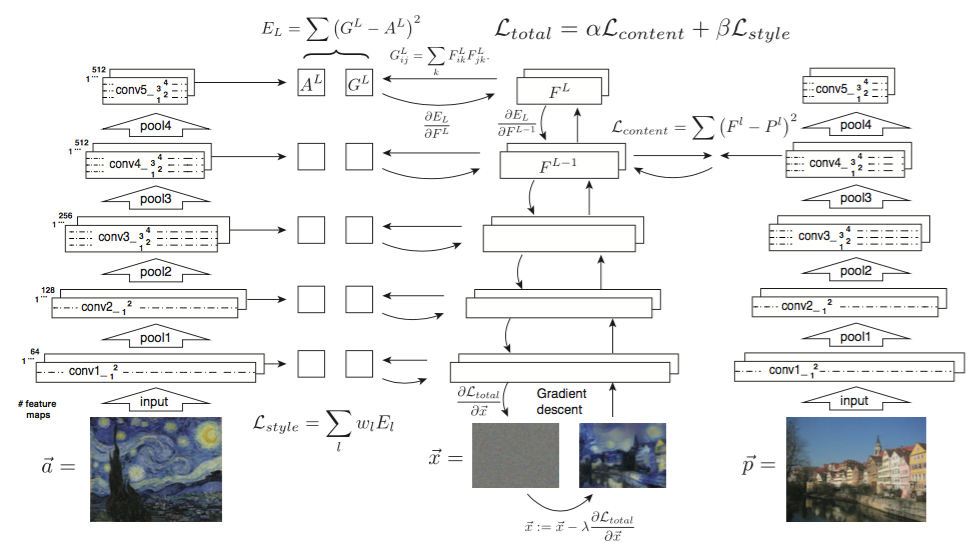
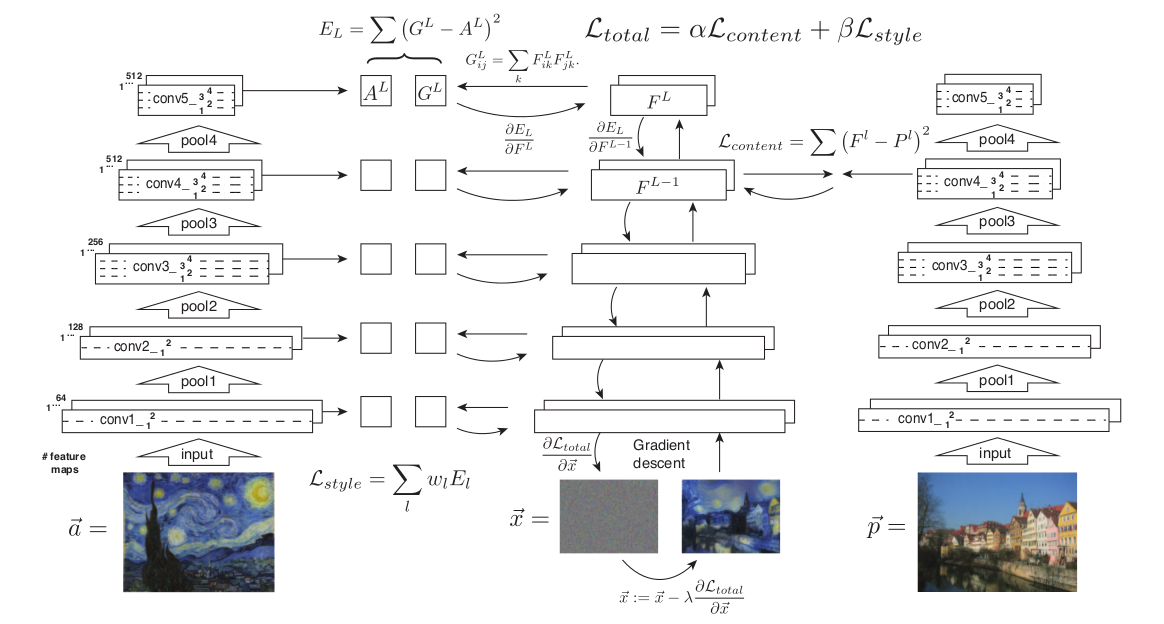
correcciones en algoritmo tranferencia de estilo

Changed region(s): [[0.0, 0.0311, 1.0, 0.9963], [0.4913, 0.0311, 0.7984, 0.0934]]

diff --git a/escrita/tesis.tex b/escrita/tesis.tex
@@ -165,18 +165,17 @@
     Debido a que las obras de arte, sueles calificadas con métricas cualitativas y no tanto cuantitativas, se decidió utilizar otra red neuronal convolucional,
     entrenada especialmente para reconocer estilos artísticos y en base a los resultados que arroja se define si el número de iteraciones es suficiente para generar el resultado final
     o es necesario continuar iterando. \\
-    Para introducir al lector en el tema, a continuación se muestran algunos ejemplos de resultados generados transfiriendo el estilo artístico a fotografías:
-    \FIXME{ACOMODAR IMÁGENES Y COMPLETAR PIE DE FOTO}
+    Para introducir al lector en el tema en la figura \ref{fig:style_transfer_candy_tower} se puede observar un ejemplo del resultado de aplicar la transferencia de estilo en fotografias.
     \begin{figure}[h]
 
-      \subfloat[Imagen de Estilo]{\includegraphics[width=0.9\linewidth, height=5cm]{./img/jhonson_style_candy.jpg}\label{fig:candy}}
+      \subfloat[Imagen de Estilo]{\includegraphics[height=0.3\textheight]{./img/jhonson_style_candy.jpg}\label{fig:candy}}
 
-      \subfloat[Imagen de Contenido]{\includegraphics[width=0.9\linewidth, height=5cm]{./img/jhonson_content_tower.jpg}\label{fig:tower}}
+      \subfloat[Imagen de Contenido]{\includegraphics[height=0.3\textheight]{./img/jhonson_content_tower.jpg}\label{fig:tower}}
 
       \subfloat[Resultado obtenido transfiriendo el estilo de la obra de arte a la imagen de contenido]
-      {\includegraphics[width=0.9\linewidth, height=5cm]{./img/jhonson_result_tower_candy.jpg}\label{fig:candy_tower}}
+      {\includegraphics[height=0.3\textheight]{./img/jhonson_result_tower_candy.jpg}\label{fig:candy_tower}}
 
-    \caption{En la figura se puede observar un ejemplo de como funciona la transferencia de estilo}
+    \caption{Ejemplo de transferencia de estilo}
     \label{fig:style_transfer_candy_tower}
     \end{figure}
 
@@ -220,7 +219,6 @@
       Tom M. Mitchell elaboró una definición más formal de este concepto de aprendizaje: “se dice que un programa de computadora aprende de una experiencia E con respecto a una clase
       de tarea T y medición de desempeño P, si su desempeño en la tarea T, medido por P, mejora con la experiencia E” [Mitchell,1997].\\
       El aprendizaje automático es esencialmente una forma de estadística aplicada con énfasis en el uso de computadoras para estimar estadísticamente funciones complicadas.
-      \FIXME{AGREGAR EJEMPLO, DETECCIÓN DE NÚMEROS EN IMÁGENES, TEXTURAS O ALGÚN OTRO?}
 
     \subsection{Clasificación de algoritmos de aprendizaje automático}
       Dentro del aprendizaje automático, los algoritmos se pueden clasificar
@@ -297,7 +295,7 @@
 	A lo largo del desarrollo de la visión por computadora se distinguen dos enfoques para la generación de descriptores capaces de reconocer características de una imagen:
 	El enfoque basado en técnicas superficiales (o “shallow” en inglés) y el enfoque de aprendizaje profundo (o “deep” en inglés).
 
-      \subsubsection{Enfoque Clásico \FIXME{MODELOS \emph{SHALLOW}}}
+      \subsubsection{Enfoque Clásico}
 	El enfoque clásico (Shallow en la literatura en ingles) responde a la manera tradicional de hacer visión por computadoras. Se busca generar una representación invariante
 	a la posición, iluminación, fondo, etc. utilizando principalmente técnicas estadísticas a partir de conocimiento anterior del objeto y del contexto.
 	Los descriptores son diseñados a mano a partir de características físicas, hipótesis y observaciones. Con este enfoque no se aprenden características de los objetos sino que
@@ -718,6 +716,7 @@
     locales que son útiles en una región de la imagen, probablemente sean útiles en otras regiones de la imagen. \FIXME{BISHOP 285 }
     \subsection{Función de Convolución}
       \FIXME{Definir función de convolución}
+      \FIXME{Hablar de filtro}
     \begin{figure}[H]
       \begin{center}
        \includegraphics[width=0.8\linewidth]{./img/stanford_cnn.jpeg}
@@ -870,29 +869,44 @@
 	\end{itemize}
 
 \chapter{Algoritmo de Transferencia de estilo}
-
-    \section{Contexto}
-      En este capitulo se desarrollan los contenidos específicos relativos al Algoritmo de Transferencia de Estilos artisticos a fotografías. El algoritmo elegido para tal fin es el que
-      presenta Gatys en su articulo \cite{Gatys:Neural_Style}. \\
-      Inicialmente, el autor publica un articulo para sintetizar texturas naturales utilizando Redes Neuronales Convolucionales entrenadas para el reconocimiento de objetos,
-      donde define a una textura como la correlación entre los distintos mapas de caracteristicas de cada una de las capas de la red.\cite{Gatys:Texture_Synthesis}
-      Esta misma idea luego la aplica para la Transferencia de Estilos, problema que normalmente se encaraba en una rama de la visión de computadoras llamada representación
-      no fotorrealista \cite{Kyprianidis:ArtisticStylization}. Existen otros enfoques conceptualmente más relacionados con los métodos que utilizan la textura para lograr la transferencia
-      del estilo artístico: \cite{Hertzmann:ImageAnalogies}, \cite{Ashikhmin:FastTextureTransfer}, \cite{Efros:ImageQuilting}, \cite{Lee:DirectionalTextureTransfer},
-      \cite{Xie:FGTS}. Sin Embargo, estos enfoques anteriormente mencionados, se basan principalmente en técnicas que manipulan directamente el píxel de la representación de una imagen. 
-      En cambio, mediante Redes Neuronales Convolucionales entrenadas en el reconocimiento de objetos,  se puede llevar a cabo manipulaciones de caracteristicas de alto nivel que representan 
-      explícitamente el contenido de una imagen. \\
-      La publicación de estos artículos, ha incentivado a muchos investigadores del area a continuar desarrollando estas ideas, a tal punto que hasta el dia de hoy se siguen publicando
-      avances el tema, a gran velocidad.
-
     \section{Introducción}
+      En este capitulo se desarrollan los contenidos específicos relativos al Algoritmo de Transferencia de Estilos artisticos a fotografías. El algoritmo elegido para tal fin es el que
+      presenta Gatys et al. \cite{Gatys:Neural_Style}. \\
       En lo que al arte respecta, los humanos han desarrollado la capacidad de crear experiencias visuales únicas componiendo una compleja interacción entre el contenido y el estilo de una imagen.
       Sin ir mas lejos, las bases algoritmicas de este proceso se desconocen y no existen sistemas artificiales que con capacidades similares. Sin embargo, en otras areas fundamentales
       de la percepcion visual como el reconocimiento de objetos y rostros recientemente se ha alcanzado precisión cercana a la de un humano, utilizando modelos de redes neuronales profundas.
       Aquí se presenta un sistema artificial basado en una Red Neural Profunda que crea imágenes artísticas de alta calidad perceptiva. El sistema utiliza representaciones neuronales
       para separar y recombinar el contenido y el estilo de imágenes arbitrarias, proporcionando un algoritmo para la creación de imágenes artísticas.
+    
+    \section {Sintetizacion de texturas}
+      \FIXME{AGREGAR INFO}
+      Inicialmente, el autor publica un articulo para sintetizar texturas naturales utilizando Redes Neuronales Convolucionales entrenadas para el reconocimiento de objetos,
+      donde define a una textura como la correlación entre los distintos mapas de caracteristicas de cada una de las capas de la red \cite{Gatys:Texture_Synthesis}. 
+      
+    \section{Contexto}
+      Transferir el estilo de una imagen a otra puede ser considerado un problema de transferencia de texturas. En la transferencia de texturas el objetivo es sintetizar la textura de la imagen
+      de donde proviene, con algunas restricciones, de modo que permita preservar el contenido semantico de la imagen a la cual se le desea transferir la textura.
+      Teniendo en cuenta todo esto, el autor adapta su idea propuesta para sintetizar texturas a la Transferencia de Estilos, problema que normalmente se encaraba en una rama de la visión de computadoras llamada representación
+      no fotorrealista \cite{Kyprianidis:ArtisticStylization}. 
+      Existen otros algoritmos que utilizan este enfoque de considerarlo como un problema de transferencia de texturas, por ejemplo: Hertzmann analogias de imagenes para transferir la 
+      textura de una imagen de estilo a otra imagen \cite{Hertzmann:ImageAnalogies}, Ashkimin se centra en la transferencia de la informacion de alta frecuencia de la textura, 
+      preservando la informacion a gruesa escala de la de la imagen de destino \cite{Ashikhmin:FastTextureTransfer}, Efros y Freeman introduce un mapa de correspondencias
+      que incluye las características de la imagen de destino, tales como la intensidad de la imagen para restringir el proceso de sintetizacion de la textura \cite{Efros:ImageQuilting}, 
+      Lee et al. mejora este algoritmo agregando a la tranferencia de textura, informacion adicional acerca de los contornos y bordes \cite{Lee:DirectionalTextureTransfer}.
+      Aunque estos algoritmos logran resultados notables, todos ellos sufren de la misma limitación fundamental: usan sólo características de bajo nivel de la imagen de destino para 
+      informar a la transferencia de textura. Idealmente, sin embargo, un algortimo de transferencia de estilo debe ser capaz de extraer la semántica del contenido de la imagen de 
+      destino (por ejemplo, los objetos y el paisaje general) y, luego, informar al procedimiento de transferencia de textura para represente el contenido semántico de la imagen de destino 
+      junto con el estilo de la imagen de origen. Por lo tanto, un requisito fundamental es encontrar representaciones de la imagen que, modelen independientemente las variaciones 
+      de la semántica del contenido de la imagen y el estilo que se les presentan. Esto se puede lograr utilizando los mapas de caracteristicas de las Redes Neuronales Convolucionales 
+      entrenadas en el reconocimiento de objetos, ya que se ha probado que estas logran extraer información semantica de alto nivel del contenido de las imagenes \cite{AlexNet}. \\
+      La publicación de estos artículos, ha incentivado a muchos investigadores del area a continuar desarrollando estas ideas, a tal punto que hasta el dia de hoy se siguen publicando
+      avances el tema, a gran velocidad.
 
     \section{Sintesis \label{sec:sintesis}}
+      El algoritmo desarrollado conceptualmente es un algoritmo de tranferencia de texturas que restringe el metodo de sintetizacion de texturas utilizando mapas de caracteristicas
+      de redes neuronales convolucionales. Dado que la modelizacion de la textura se basa en estas mismas representaciones, el metodo de transferencia de estilo se reduce a un problema
+      de optimizacion en una unica red neuronal. Las imagenes son generadas minimizando la distancia entre los mapas de caracteristicas de las imagenes de entrada con los mapas de
+      caracteristica de la imagen de salida.
       Cuando las Redes Neuronales Convolucionales (CNNs) son entrenadas para reconocimiento de objetos, desarrollan una representación de la imagen que hace que la información
       del objeto sea cada vez más explícita a lo largo de la jerarquia de las capas de la red. Por lo tanto, a lo largo de las distintas capas de la red,
       la imagen de entrada se transforma en representaciones que cada vez más se preocupan por el contenido real de la imagen en lugar del valor de sus píxeles.
@@ -914,10 +928,26 @@
       Otros hiperparametros que requiere el algoritmo son definir cual sera la Red Convolucional utilizada y cuales seran las capas de la red empleadas para calcular el estilo y cual sera la capa elegida
       para calcular el contenido.
       	  \begin{figure}[h]
-	    \includegraphics[width=\linewidth]{./img/gatys_1.png}
-	    \caption{COMPLETAR}
-	    \label{fig:gatys_1}
+	    \includegraphics[width=\textwidth]{./img/gatys_1.png}
+	    \caption{Reconstrucciones del Estilo y Contenido utilizando una CNN}
+	    \label{fig:gatys_reconstrucciones}
 	  \end{figure}
+      En la figura \ref{fig:gatys_reconstrucciones} se pueden observar el resultado de reconstruir el estilo y el contenido utilizando los mapas de caracteristicas que se obtienen al
+      realizar una pasada hacia adelante en la red VGG. Dada una imagen de entrada, en cada capa de la red, ésta se representa como el mapa de caracteristicas en respuesta a los filtros
+      que pertenecen a esa capa. Mientras que el número de filtros va aumentando a lo largo de la jerarquía de la red, el tamaño de las representaciones de la imágenes va siendo reducido p
+      or algunos mecanismos disminución de resolución(por ejemplo, agrupación) que conduce a una disminución en el número total de unidades por cada capa de la red.\\
+      \textbf{Reconstruccion del contenido:}
+	En la parte inferior de la figura \ref{fig:gatys_reconstrucciones} podemos visualizar la información en diferentes etapas de procesamiento en la CNN por la reconstrucción 
+	de la imagen de entrada solamente conociendo las respuestas de los filtros 
+	en una capa en particular. Al reconstruir la imagen de entrada a partir de las capas 'conv1\_1'(a), 'conv2\_1' (b), 'conv3\_1' (c), 'conv4\_1' (d) y 'conv5\_1' (e) de la red VGG,  
+	se puede observar que la reconstrucción de las capas inferiores es casi perfecta (a,b,c). En cambio, en las capas más altas de la red, información detallada de los píxeles se 
+	pierde, mientras que el contenido de alto nivel  de la la imagen se conserva (d,e). \\
+      \textbf{Reconstruccion del estilo}:
+	En la parte superior de la figura \ref{fig:gatys_reconstrucciones} construimos un nuevo espacio de características que captura el estilo de una imagen de entrada. 
+	La representación de estilo se obtiene calculando las correlaciones entre los mapas de características de diferentes capas de la CNN. Al reconstruir el estilo de la imagen de estilo  
+	utlizando diferentes subconjuntos de capas de la red ('conv1\_1' (a), "conv1\_1' y 'conv2\_1' (b), 'conv1\_1', 'conv2\_1' y 'conv3\_1' (c),'conv1\_1', 'conv2\_1', 'conv3\_1 ' y 'conv4\_1' (d), 
+	'conv1\_1', 'conv2\_1', 'conv3\_1', 'conv4\_1' y 'conv5\_1' (e)). 
+	Esto crea imágenes que coinciden con el estilo de la imagen dada, descartando la información del orden espacial de la escena.
 
     \section{Métodos \label{sec:metodos}}
       Los resultados exhibidos fueron obtenidos utilizando la red VGG-19, de disponibilidad publica \cite{SimonyanVGG}.
@@ -962,15 +992,30 @@
       Esta funcion combina linealmente las funciones de perdida del contenido y el estilo, por lo que se conforma por 2 terminos principales, uno correspondiente a la funcion de perdida
       del contenido y otro correspondiente a la funcion de perdida del estilo, donde $\alpha$ y $\beta$ son los factores de peso para el contenido y el estilo respectivamente, 
       a la hora de combinarlos.
+      \begin{equation}
+       \hat x = \arg\min_X L_{total}
+      \end{equation}
+
 
       \FIXME{``formalizar'' la solución de resolver el problema
-        \eqref{eq:objetivo} como $\hat x = \arg\min_X L_{total}...$}
+        \eqref{eq:objetivo} como $\overrightarrow{x} = \arg\min_X L_{total}...$}
 
       \begin{figure}[h]
-	\includegraphics[width=\linewidth]{./img/gatys_method.png}
-	\caption{COMPLETAR}
-	\label{fig:gatys_2}
+	\includegraphics[width=\textwidth]{./img/gatys_method.png}
+	\caption{Algoritmo de transferencia de estilo}
+	\label{fig:gatys_generacion}
       \end{figure}
+	A continuacion se realiza una explicacion detallada de lo que se muestra en la figura \ref{fig:gatys_generacion}: \\
+	En primer lugar, las características de contenido y estilo se extraen y almacenan. La imagen de estilo $\overrightarrow{a}$ se pasa a través de la red
+	y sus representaciones de estilo $A^l$ en todas las capas incluidas, son calculadas y almacenadas (a la izquierda). La imagen de contenido $\overrightarrow{p}$ pasa a través 
+	de la red y la representación del contenido $P^l$ en una capa se almacena (a la derecha). Luego a partir de una imagen de ruido blanco $\overrightarrow{x}$ pasa a través de la red y sus
+	características de estilo de $G^l$ y sus características de contenido $F^l$ son calculadas. \\
+	En cada capa incluida en la representación de estilo, se calcula la diferencia cuadratica media punto a punto entre $G^l$ y $A^l$ para obtener la funcion de perdida del estilo
+	$L_{estilo}$ (a la izquierda). Tambien se calcula la diferencia cuadratica media entre $F^l$ y $P^l$ para obtener la funcion de perdida del contenido $L_{contenido}$ (a la derecha).
+	La función pérdida total $L_{total}$ es entonces una combinación lineal entre la función de perdida del contenido y la función de pérdida del estilo.
+	La derivada de  $L_{total}$ con respecto a los valores de los píxeles pueden ser calculadas con el metodo  de retropropagación del error (en el medio). 
+	Este gradiente se utiliza de forma iterativa actualizando la imagen $\overrightarrow{x}$ hasta que simultáneamente coincida con las características de estilo de la imagen 
+	de estilo $\overrightarrow{a}$ y con las características de contenido de la imagen de contenido $\overrightarrow{p}$ (en la parte inferior central).
 
 
 \chapter{Elección Automatica de hiperparámetros para Transferencia de estilo}
@@ -1009,8 +1054,6 @@
       que va aumentando el numero de iteraciones la distancia entre las imagenes de entrada y la imagen generada se va minimizando.
     
     \subsection{Módulo de evaluación de imágenes: Reconocimiento de estilo \label{sec:evaluador}}
-      %% Como se mencionó anteriormente, para lo que respecta a las obras de arte, la evaluación suele ser cualitativa. Por lo que para poder establecer una métrica de comparación cuantitativa
-      %% que permita evaluar el resultado generado, la idea que planteamos es implementar un modulo que reconozca el estilo de una imagen.
       Como se mencionó en Sec.~\ref{sec:evaluacion}, una de las limitaciones del proceso de transferencia de estilo es que la evaluación de
       la imagen resultante es de carácter cualitativo. A fin de establecer una medida cuantitativa y así controlar el resultado de la generación de
       manera más objetiva, se propone definir un clasificador, que se encargue de reconocer el estilo de una imagen, brindando un puntaje de clasificacion para cada estilo.
@@ -1197,6 +1240,10 @@
 \chapter{Conclusiones, Perspectivas y trabajos a futuro}
   \section{Conclusiones}
   \section{Trabajos a futuro}
+    \FIXME{ \url{https://dailyvisionblog.wordpress.com/2016/07/31/notes-on-texture-networks-feed-forward-synthesis-of-textures-and-stylized-images-and-style-transfer-related-papers/}}
+    \subsection{Reconocimiento de Estilos}
+      Basandose en la misma idea de entrenar una red convolucional para reconocer solo 10 estilos, se podria extender esto a todos los estilos y utilizando todas las imagenes disponibles
+      en WikiArt.
     \subsection{Automatizacion de hiperparámetros}
       Se podría realizar una especie de predefinición del número de iteraciones que requiere cada estilo, ejecutando el algoritmo una gran cantidad de veces y definiendo este valor
       estadisticamente, aunque esto puede llegar a no funciónar correctamente en todos los casos ya que dependiendo de la imagen de contenido, el estilo objetivo podria variar.
@@ -1204,6 +1251,7 @@
       A partir del articulo presentado por Gatys, se fueron publicando una serie de articulos que presentaban mejoras u optimizaciones al algortimo, ademas de buscar comprimir la red,
       para que una vez entrenada en un dispositivo de gran capacidad de computo, luego pueda ser insertado y ejecutado para transferir estilo en dispositivo menor como lo son los smartphones.
       Por ejemplo se lograron entrenar modelos que transfieran el estilo de una obra de arte en particular, que puede ser ejecutado en un smartphone
+      
 \printindex
 \bibliography{./tex/biblio}        %use a bibtex bibliography file refs.bib
 \bibliographystyle{unsrt}
